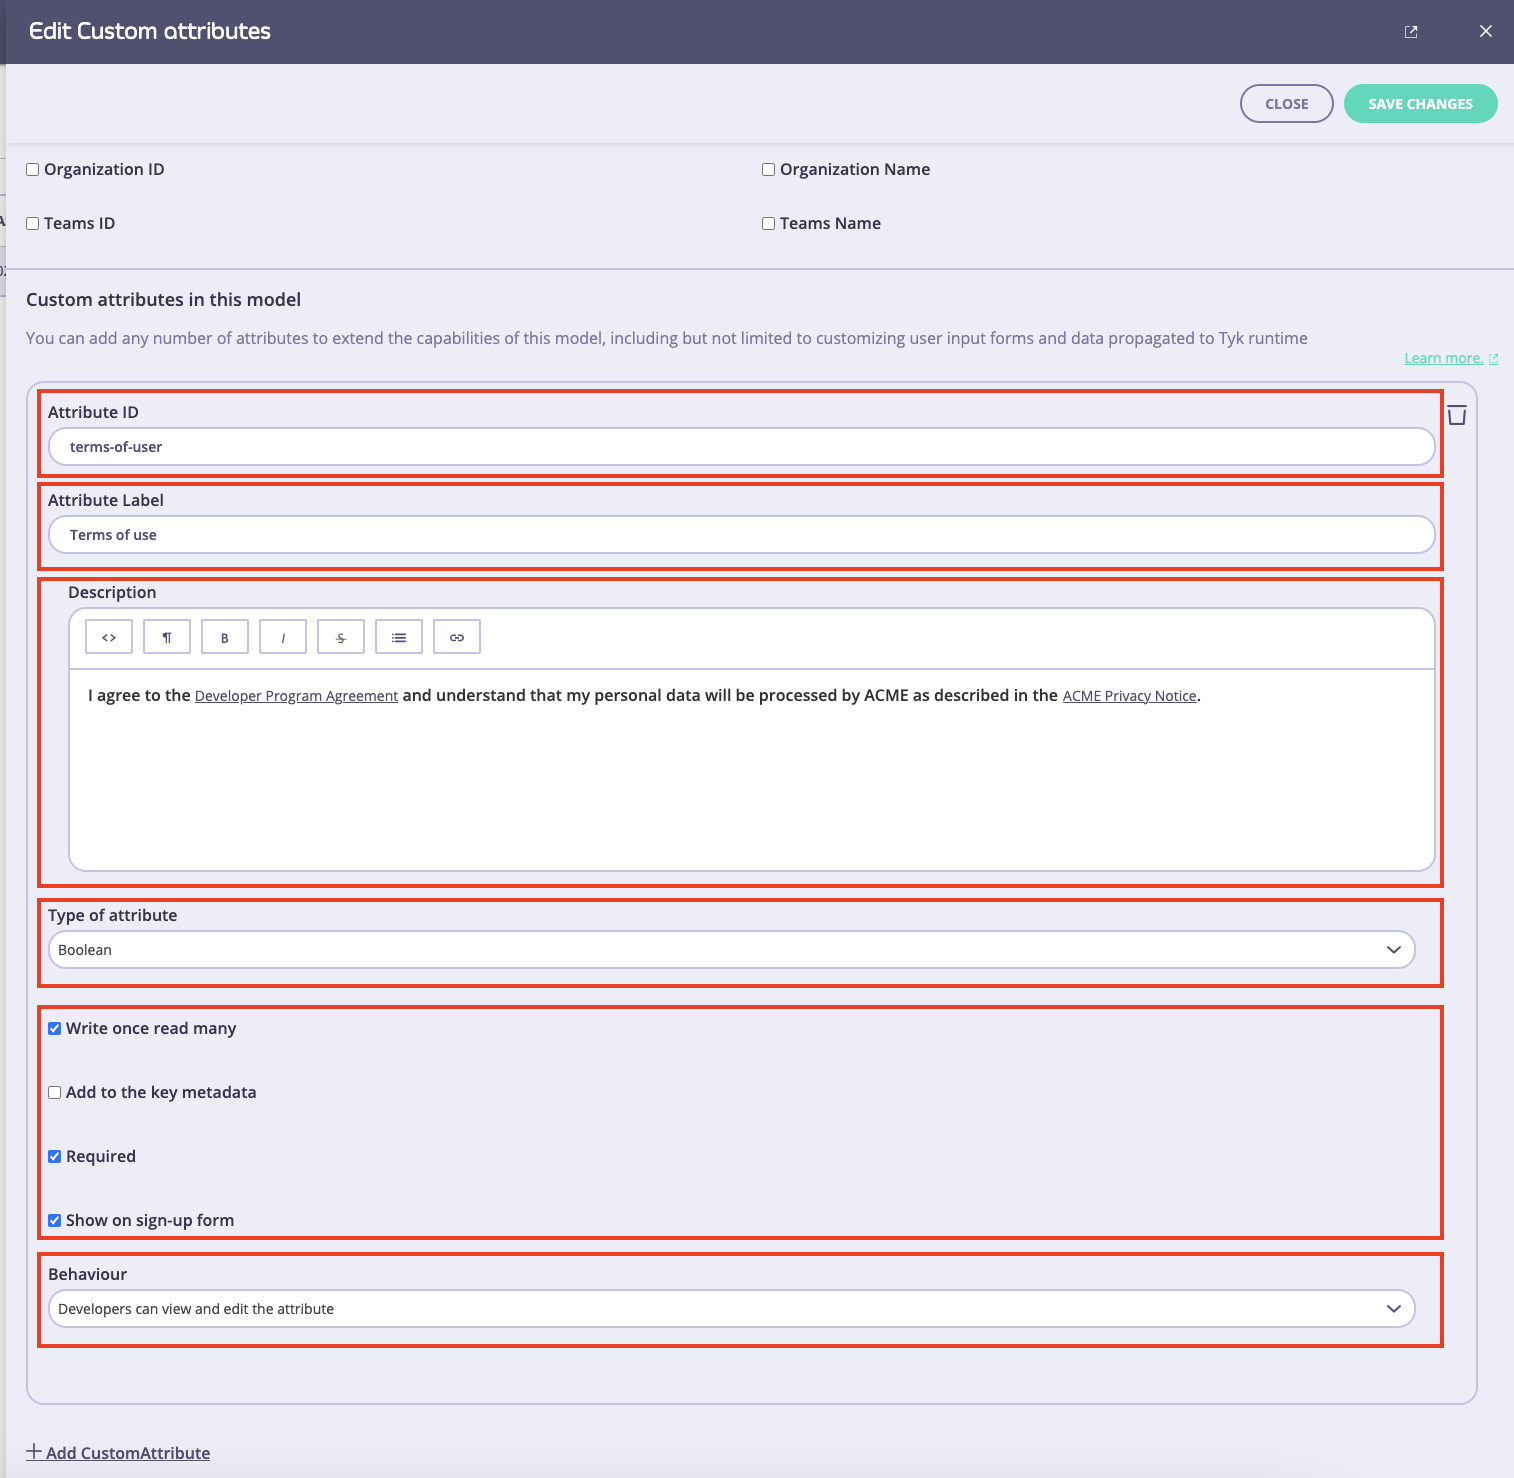
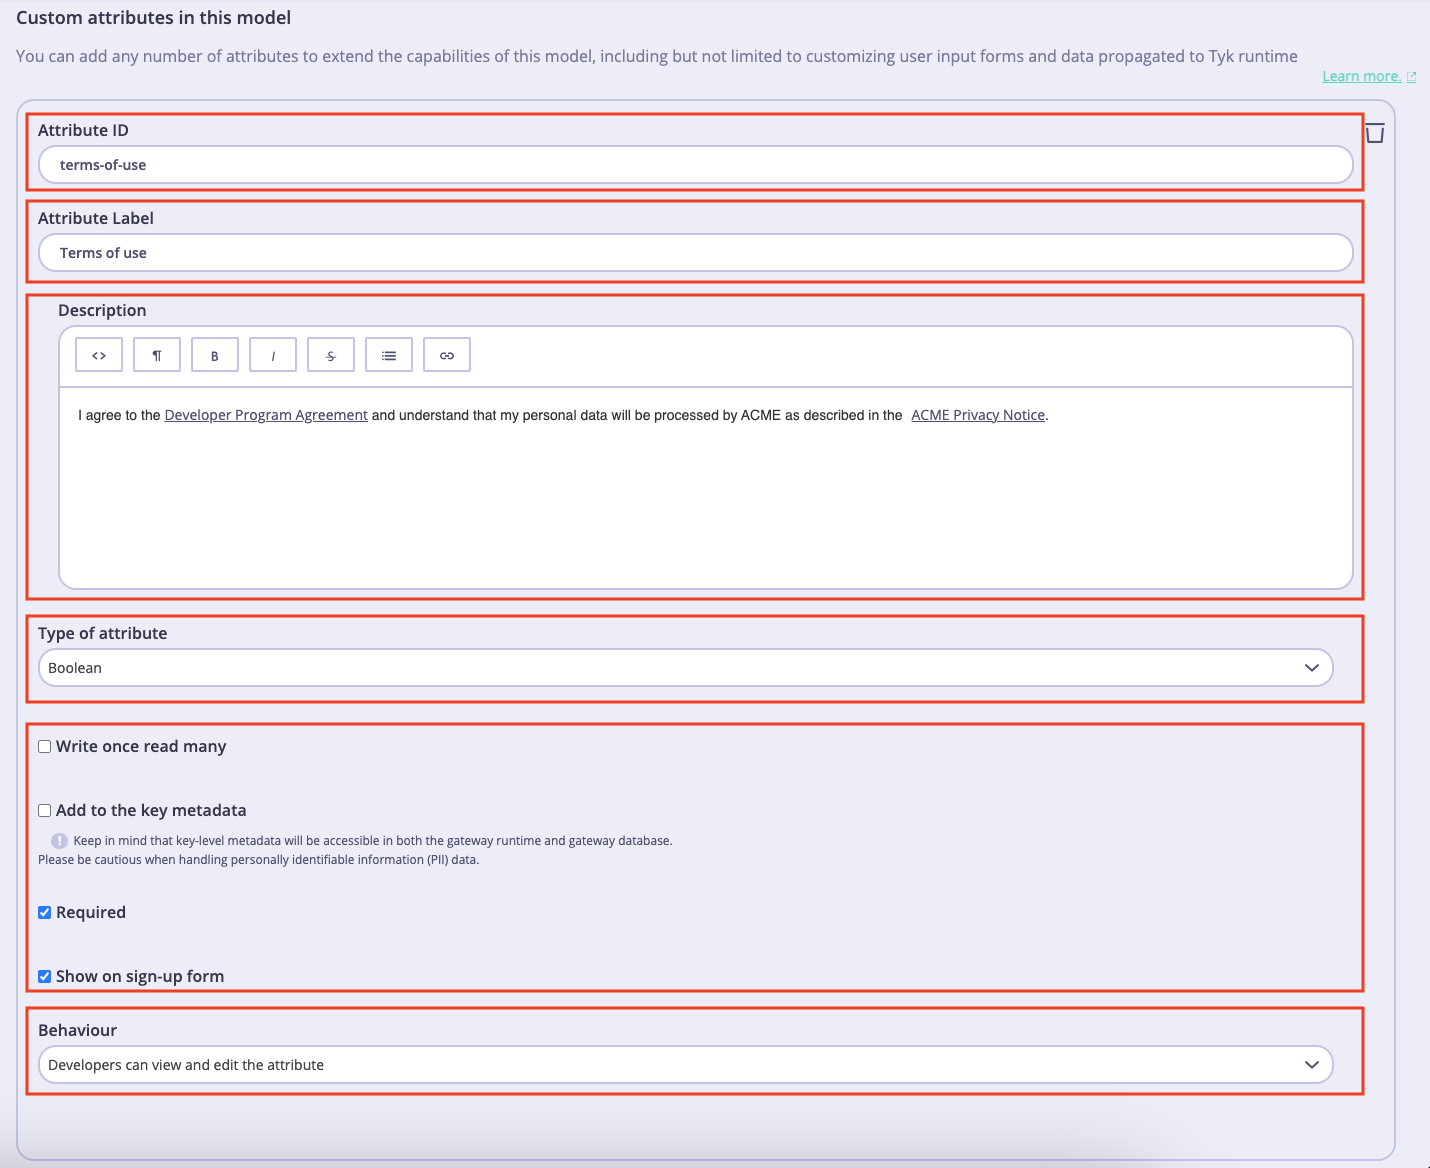
[TT-11278] Update docs for custom attributes for the User model.

Changed region(s): [[0.0, 0.0, 1.0, 1.0]]

diff --git a/tyk-docs/content/product-stack/tyk-enterprise-developer-portal/portal-customisation/customise-user-model.md b/tyk-docs/content/product-stack/tyk-enterprise-developer-portal/portal-customisation/customise-user-model.md
@@ -1,0 +1,84 @@
+---
+title: "Customise the User model"
+date: 2024-02-29
+tags: ["Tyk Developer Portal","Enterprise Portal","Sign-up","User attributes","Metadata"]
+description: "Customise the User model and extend the data stored in the User profile"
+menu:
+    main:
+        parent: "Customise the portal"
+weight: 3
+---
+
+{{< note success >}}
+**Tyk Enterprise Developer Portal**
+
+If you are interested in getting access, contact us at [support@tyk.io](<mailto:support@tyk.io?subject=Tyk Enterprise Portal Beta>)
+
+{{< /note >}}
+
+## Introduction
+
+In this section, you will learn how to customize the User model and the sign-up form for your API consumers.
+Customizing the User model enables the storage of custom data attributes in the User profile.
+Additionally, it allows these attributes to be optionally included in the credentials metadata (therefore accessible by the gateway runtime) and exposed in the user sign-up form.
+
+This feature enables the implementation of complex business logic when processing API requests.
+For example, it is particularly useful when the quota for API calls needs to be distributed among all developers of consumer organizations.
+In such cases, both the quota and the rate limit should be applied at the organization level, rather than according to individual credentials.
+In this event, the organisation ID should be known to the gateway in runtime. This feature helps to achieve that.
+
+## Add new Custom Attributes to the User model
+
+To customise the User model by adding new data attributes to it, navigate to the **Custom attributes** menu and the select the **User** model. Currently, it is possible to extend only the User model. In future releases we will add the same capabilities to other models.
+{{< img src="img/dashboard/portal-management/enterprise-portal/navigate-to-user-attributes.png" alt="Navigate to the User's attributes" >}}
+
+## Add attributes to the user model
+To add a new attribute to the user model, click on the **Add Custom attribute** button and then fill in properties of the new attribute:
+- **Attribute ID**: A string that consists of letters (a-zA-Z), numbers (0-9), dashes, and underscores. This is used to reference the attribute in the [Admin APIs]({{< ref "/product-stack/tyk-enterprise-developer-portal/api-documentation/tyk-edp-api" >}}) screen.
+- **Attribute Label**: The attribute's name that is displayed in the UI.
+- **Description**: Explains the intended usage of this attribute. It is also displayed in the UI.
+- **Type of attribute**: The type of data that can be stored in this attribute. You cannot change the value of this field once the attribute is created. The following data types are acceptable:
+  - Boolean (true or false).
+  - Dropdown (a list of values).
+  - String.
+  - Number.
+- **Validation Reg Exp**: A regular expression that is used to validate the value of this field. It is available for the **String** data type only.
+- **Enable validation**: Determines if the portal should apply the regular expression defined in the **Validation Reg Exp** to validate the value of this attribute when creating or updating a user profile. It is available for the **String** data type only.
+- **Dropdown Values**: A list of values for the attribute. It is available for the **Dropdown** data type only.
+- Fields that define the attribute's behavior:
+  - **Write once read many**: Determines if the value of the attribute can be changed after a user profile is created. 
+  - **Add to the key metadata**: Determines if the value of the attribute should be added to the metadata of Auth keys or OAuth2.0 clients when a user creates them. Keep in mind that credential-level metadata will be accessible in both the gateway runtime and gateway database. Please be cautious when handling personally identifiable information (PII) data.
+  - **Required**: Determines if this attribute is required to create a user profile.
+  - **Show on sign-up form**: Determines if this attribute should be visible in the sing-up form.
+- **Behavior**: Determines if developers can view or edit this attribute. Possible values are:
+  - Developers can view and edit the attribute.
+  - Developers can only view the attribute.
+  - Developers cannot see the attribute.
+
+For the purpose of this guide, make sure to tick the **Required** and **Show on sign-up form** checkboxes and select the **Developers can only view the attribute** option.
+{{< img src="img/dashboard/portal-management/enterprise-portal/add-new-attribute-to-user-model.png" alt="Add a new attribute to the user model" >}}
+
+The new attribute will be added to the user sign-up form, once you have created a new custom attribute and saved changes to the user model by clicking on the **Save** button.
+{{< img src="img/dashboard/portal-management/enterprise-portal/custom-attribute-in-the-sign-up-form.png" alt="Customized user sign-up form" >}}
+
+
+## Default attributes
+By default, the portal assigns the following attributes to credentials metadata in the gateway when provisioning API credentials:
+| Attribute       | Name of the credential metadata field | Description                                                                       |
+|-----------------|---------------------------------------|-----------------------------------------------------------------------------------|
+| Developer ID    | DeveloperID                           | ID of the developer who created the credential                                    |
+| Application ID  | ApplicationID                         | ID of the application to which it belongs                                         |
+| Organisation ID | OrganisationID                        | ID of the organisation to which the developer who created the application belongs |
+| Team IDs        | TeamIDs                               | Array of team IDs to which the developer, who created the application, belongs    |
+
+Additionally, it is possible to include other default attributes of the User model in the credential metadata fields.
+However, it is important to remember that metadata at the credential level will be accessible both in the gateway runtime and in the gateway database.
+Exercise caution when dealing with personally identifiable information (PII). The available default attributes include:
+| Attribute         | Name of the credential metadata field | Description                                                                         |
+|-------------------|---------------------------------------|-------------------------------------------------------------------------------------|
+| First name        | First                                 | First name of the developer who created the credential                              |
+| Last name         | Last                                  | Last name of the developer who created the credential                               |
+| Email             | Email                                 | Email name of the developer who created the credential                              |
+| Role              | Role                                  | Array of team IDs to which the developer, who created the application, belongs      |
+| Organisation name | Organisation                          | Name of the organisation to which the developer who created the application belongs |
+| Teams name        | TeamNames                             | Array of team name to which the developer, who created the application, belongs     |

diff --git a/tyk-docs/content/product-stack/tyk-enterprise-developer-portal/getting-started/customize-sign-up-form.md b/tyk-docs/content/product-stack/tyk-enterprise-developer-portal/getting-started/customize-sign-up-form.md
@@ -44,7 +44,7 @@ To add a new attribute to the user model, click on the **Add Custom attribute** 
 - **Dropdown Values**: A list of values for the attribute. It is available for the **Dropdown** data type only.
 - Fields that define the attribute's behavior:
   - **Write once read many**: Determines if the value of the attribute can be changed after a user profile is created.
-  - **Add to the key metadata**: Determines if the value of the attribute should be added to the metadata of Auth keys or OAuth2.0 clients when a user creates them.
+  - **Add to the key metadata**: Determines if the value of the attribute should be added to the metadata of Auth keys or OAuth2.0 clients when a user creates them. Keep in mind that credential-level metadata will be accessible in both the gateway runtime and gateway database. Please be cautious when handling personally identifiable information (PII) data.
   - **Required**: Determines if this attribute is required to create a user profile.
   - **Show on sign-up form**: Determines if this attribute should be visible in the sing-up form.
 - **Behavior**: Determines if developers can view or edit this attribute. Possible values are:
